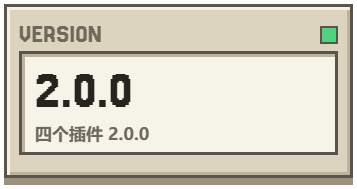
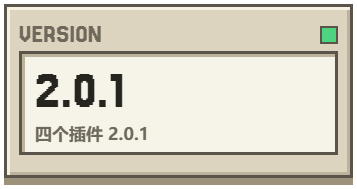
chore(发布): 2.0.1 版本、商店目录、README 头图与发行说明
catalog/stable.json 与四个 .fish-plugin 的 sha256/bytes 同源；README 与渲染图把版本写到 2.0.1；新增 docs/releases/2.0.1.md。

Changed region(s): [[0.3081, 0.3704, 0.3697, 0.582], [0.3697, 0.6614, 0.4314, 0.7407]]

diff --git a/assets/readme/header.html b/assets/readme/header.html
@@ -71,7 +71,7 @@ h1{margin:0;font-size:124px;line-height:1.12;height:140px;white-space:nowrap}
 <img class="mascot" src="mascot.png" width="188" height="239" alt="用户指定的求佛透明挂件">
 </section>
 <section class="metrics">
-<div id="stat-version" class="metric frame"><div class="metric-head pixel">VERSION<i class="lamp"></i></div><div class="metric-value"><span class="number pixel">2.0.0</span><span class="metric-label" data-zh="四个插件 2.0.0" data-en="FOUR PLUGINS 2.0.0"></span></div></div>
+<div id="stat-version" class="metric frame"><div class="metric-head pixel">VERSION<i class="lamp"></i></div><div class="metric-value"><span class="number pixel">2.0.1</span><span class="metric-label" data-zh="四个插件 2.0.1" data-en="FOUR PLUGINS 2.0.1"></span></div></div>
 <div id="stat-desktop" class="metric frame"><div class="metric-head pixel">PLUGINS<i class="lamp"></i></div><div class="metric-value"><span class="number pixel">4 PLUGINS</span><span class="metric-label" data-zh="四个独立插件" data-en="INDEPENDENT PLUGINS"></span></div></div>
 <div id="stat-mail" class="metric frame"><div class="metric-head pixel">PACKAGES<i class="lamp"></i></div><div class="metric-value"><span class="number pixel" data-zh="4 PACKS" data-en="4 PACKS"></span><span class="metric-label" data-zh="四个 npm 单包" data-en="NPM SINGLE PACKAGES"></span></div></div>
 <div id="stat-channels" class="metric frame"><div class="metric-head pixel">HOST API<i class="lamp"></i></div><div class="metric-value"><span class="number pixel">API 1</span><span class="metric-label" data-zh="FISH Dock 2.0.0+" data-en="FISH DOCK 2.0.0+"></span></div></div>

diff --git a/docs/releases/2.0.1.md b/docs/releases/2.0.1.md
@@ -1,0 +1,70 @@
+# 四个插件 2.0.1
+
+飞书通知、Clash 代理、Magpie 网关、OFM 本地模型升到 **2.0.1**，配套 **FISH Dock 2.0.0 及以上**。这一版收口 [插件仓 #11](https://github.com/Fish-under-sea/FISH-DOCK-Plugins/issues/11) 的两件事，外加三处实测出来的缺陷。
+
+## 自启动只剩宿主插件卡一个入口
+
+2.0.0 让插件卡和服务页各有一颗「随 Dock 启动」胶囊，两处写的是注册表里同一个 `autostart`，实测会出现「插件页显示未启用、插件卡显示已开启」的错位。2.0.1 把插件页里的那颗**整颗删掉**：
+
+- Clash 概览的「系统信息」卡不再有「开机自启」行与切换按钮；
+- Magpie、OFM 共用的服务页顶部不再有自启动胶囊（`shared/gateway-page.*` 与它的样式、用例一并删除）；
+- 飞书本来就没有这个控件；
+- 三个有本机服务的插件后端**仍然**读 `FISH_PLUGIN_AUTOSTART`——那是「随 Dock 启动」的实际执行点，删了自启动就真的失效。
+
+宿主侧的三态按钮（红「关闭自启动」/ 蓝「随 Dock 启动」/ 绿「无需自启动」）是唯一入口。
+
+## Magpie：上游追到 v0.1.2336，页面调用通道修回来
+
+- 基线从 `v0.1.1709+fish.2` 追到 **`v0.1.2336+fish.3`**（`magpie v0.1.2336+fish.3`，FileVersion `0.1.2336.3`）。
+- **修掉 2.0.0 的一处退化**：2.0.0 包里实际附的是上游官方 `0.1.1549` 未打补丁的 exe，它没有 `magpie.call` 通道，签到页的「关 / 开」「立即签到」与中转站探针的写动作发不出去。2.0.1 恢复自编译构建，`POST /api/plugin-pages/call` 按 `package.json` 的 `magpie.calls` 白名单分派，CSP 一行未改。
+- 补丁重排的三个冲突点记在 [`plugins/magpie/tools/README.md`](../../plugins/magpie/tools/README.md)：`pluginPage` / `pluginPanel` 结构体加字段（上游新增 `Icon`、`Replaces`、`hosted`、`options`、`service`）、`pluginPageRoutes` 签名新增 `web bool`、`core_budget_test.go` 的预算常量以上游为准。
+
+## Magpie：预装插件基线（15 项，不含 Usage Glance）
+
+首次拉起 Magpie 时，插件把这些登记进 `plugins.json`（只写包名，不下载、不占包体积）：
+
+| # | 名称 | 类型 | 承载 |
+| --- | --- | --- | --- |
+| 1 | 商汤小浣熊 | 供应商 | 商汤小浣熊 |
+| 2 | AutoClaw | 供应商 | AutoClaw (Zhipu)、AutoClaw 国内 (Zhipu) |
+| 3 | Cline | 供应商 | Cline |
+| 4 | CodeArts / OfficeAce | 供应商 | CodeArts、OfficeAce |
+| 5 | Kiro | 供应商 | Kiro |
+| 6 | Loom | 供应商 | Loom（讯飞） |
+| 7 | MiniMax Code | 供应商 | MiniMax Code、MiniMax Code (Global) |
+| 8 | OpenCode Zen Free | 供应商 | OpenCode Zen Free |
+| 9 | page-checkin | 页面 | 为侧边栏添加一个页面，可读取 `checkin:state` |
+| 10 | page-relay-probe | 页面 | 为侧边栏添加一个页面，不读取 magpie 的任何内容 |
+| 11 | Qoder | 供应商 | Qoder 国际版、Qoder CN、QwenWork、QwenWork 企业版 |
+| 12 | Trae | 供应商 | Trae CN、Trae Global |
+| 13 | WorkBuddy | 供应商 | WorkBuddy (CodeBuddy)、WorkBuddy 国际版 (WorkBuddy AI) |
+| 14 | Xiaomi MiMo | 供应商 | Xiaomi MiMo |
+| 15 | ZCode | 供应商 | ZCode (GLM Coding Plan) |
+
+- 前 13 项由 `@magpie-community/opencode-*-auth` 承载，登记后由 Magpie 自己的更新循环安装（`internal/plugin/plugin_missing_test.go`：清单里有、`plugins/` 下没有的包会被按 spec 装回来）。所以**首次启动需要联网**拿到这些包与 Bun 运行时，失败下次启动重试。
+- 后 2 项仍然随插件包分发（`page-plugins/`），以稳定目录登记，升级只换内容不换路径。
+- `Usage Glance` **不再内置**，也不在预装基线里；需要它请自行安装。
+- 登记只做一次（`<data>/.fish-dock-preinstalled.json`）：用户之后自己停用或移除的插件不会被加回来，写死版本号的条目也原样保留。想关掉这次登记，设 `FISH_DOCK_MAGPIE_PREINSTALL=0`。
+
+## Clash：两个实测缺陷
+
+- **节点下拉不再「点一下很快消失」**。内核运行时页面每 1.2 秒轮询重绘一次，重绘整块换掉 DOM，原生 `<select>` 的展开列表挂在这个元素上，元素一换列表就没了——表现就是点开就消失、节点根本选不了。现在下拉展开期间不重绘，收起后补一次。页面版本 `1.4.0`（`page.html?v=1.4.0`）。
+- **TUN 与普通模式不再互相占着端口**。两者写的是同一个控制器端口，先起的那个占着，另一个连不上，于是「只有一个能用」。普通模式起内核之前，先把 TUN 服务托管的内核交还（`job.ini` 置 0 并等它停），再 spawn 自己的内核。
+
+## 产物
+
+| 包 | 字节 | SHA-256 |
+| --- | --- | --- |
[4 lines of base64/hex data omitted]
+
+npm 单包（版本同为 2.0.1）：`@fish-under-sea/fish-dock-plugin-feishu`、`-clash`、`-magpie`、`-ofm`。
+
+## 已知未做
+
+- **OFM 保持 2.0.0 的服务内容**（该插件 10 月 25 日暂停维护，本版只为它补版本号与自启动收口，不跟它自己的上游）。它上游的 `packages/standalone/backup.mjs` 已不存在，`stage.mjs` 与新结构不匹配——本版用 `--ofm-staged` 复用 2.0.0 已暂存的服务目录，暂存脚本的这个缺口留待恢复维护时一并处理。
+- **宿主侧「拨到随 Dock 启动不立即生效」不是插件能修的**：`plugin_api.rs` 的 `dock.autostart` 只写注册表，拉起只发生在启动流程的 `resume()` 里，且 `resume()` 一个环节失败会跳过整批插件的自启动、只 eprintln。已开 [FISH-Dock#35](https://github.com/Fish-under-sea/FISH-Dock/issues/35)。
+- Clash 的规则页、连接页仍是 JSON 摘要。
+- `magpie.call` 通道与 `internal/relay` 探测仍靠 `fish.3` 补丁维持（上游至今只有读与页面选项），上游升级时要重排补丁。

diff --git a/README.md b/README.md
@@ -35,11 +35,11 @@
 
 每个插件独立保存配置与凭据，按需启动，不共享业务密钥。插件仓只发布插件资源，桌面安装包请前往 [FISH-Dock](https://github.com/Fish-under-sea/FISH-Dock)。
 
-本版为四个插件 **2.0.0**，要求 **FISH Dock ≥ 2.0.0**。这一版改的是身份与自启动钩子：作者改为数组、维护者字段整体去掉，OFM 标注「此插件于 10 月 25 日暂停维护」；四个插件新增清单行为钩子 `behaviors.autostart`，插件卡与服务页共用一颗「随 Dock 启动」胶囊，宿主只在随 Dock 启动那一次传 `FISH_PLUGIN_AUTOSTART=1`，安装、启用与回滚都不传。业务功能沿用各自上一次发布：Clash Verge 式信息卡与节点页搜索排序（1.3.1）、Magpie 签到页按厂商分组并一键签到（1.2.4）、飞书与 OFM 保持不变。完整变更见 [2.0.0 发行说明](docs/releases/2.0.0.md)。
+本版为四个插件 **2.0.1**，要求 **FISH Dock ≥ 2.0.0**。这一版是 #11 的收口：自启动只留宿主插件卡一个入口，插件页里那颗重复的「随 Dock 启动」胶囊连同 `dock.autostart` 调用整颗删掉（后端读 `FISH_PLUGIN_AUTOSTART` 的分支保留，那是自启动的实际执行点）；Magpie 上游追到 `v0.1.2336+fish.3`——2.0.0 误附了未打补丁的官方 exe，签到页与探针的写动作发不出去，本版修回——并内置 15 项预装插件基线（13 个社区供应商插件首次启动登记、2 个页面插件随包分发，无 `Usage Glance`）；Clash 修掉节点下拉点开就消失（轮询重绘换掉 `<select>`）与 TUN / 普通模式互相占端口两个实测缺陷，页面版本升到 `1.4.0`。完整变更见 [2.0.1 发行说明](docs/releases/2.0.1.md)。
 
 > ⚠ **2.0.0 是 breaking 版本**：插件清单新增 `behaviors` 字段，FISH Dock 1.2.3 及更早的宿主用 `deny_unknown_fields` 解析，会以「plugin.json 格式无效或含未知字段」直接拒装。**旧宿主请先把 Dock 升到 2.0.0**，再安装这四个插件。
 
-> ⚠ npm 上 `@fish-under-sea/fish-dock-plugin-clash@1.1.0` 为误发版本（基于旧基线，缺少 1.0.4 的多订阅修复），请勿使用；本版四个单包均为 `2.0.0`。
+> ⚠ npm 上 `@fish-under-sea/fish-dock-plugin-clash@1.1.0` 为误发版本（基于旧基线，缺少 1.0.4 的多订阅修复），请勿使用；本版四个单包均为 `2.0.1`。
 
 <h2 id="plugins"><picture><source media="(prefers-color-scheme: dark)" srcset="assets/readme/section-features-dark.png"><img src="assets/readme/section-features-light.png" alt="PLUGINS · 四个插件" width="100%"></picture></h2>
 
